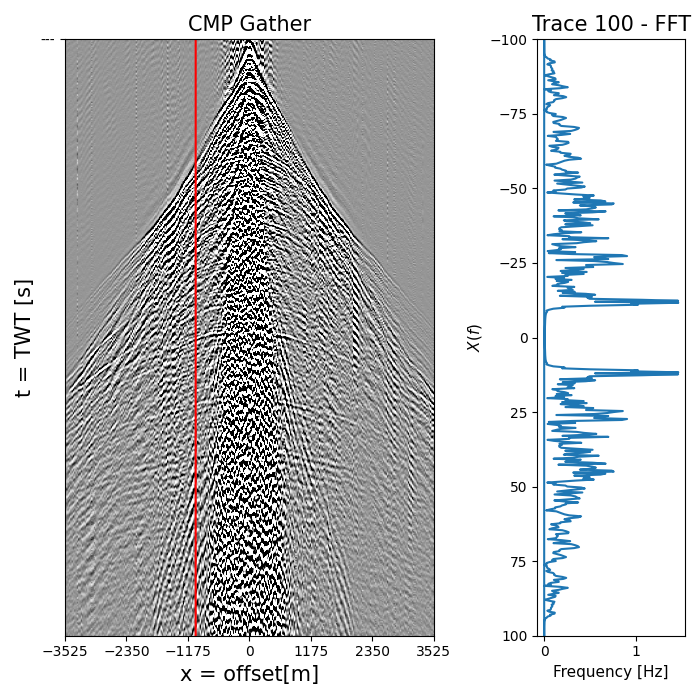
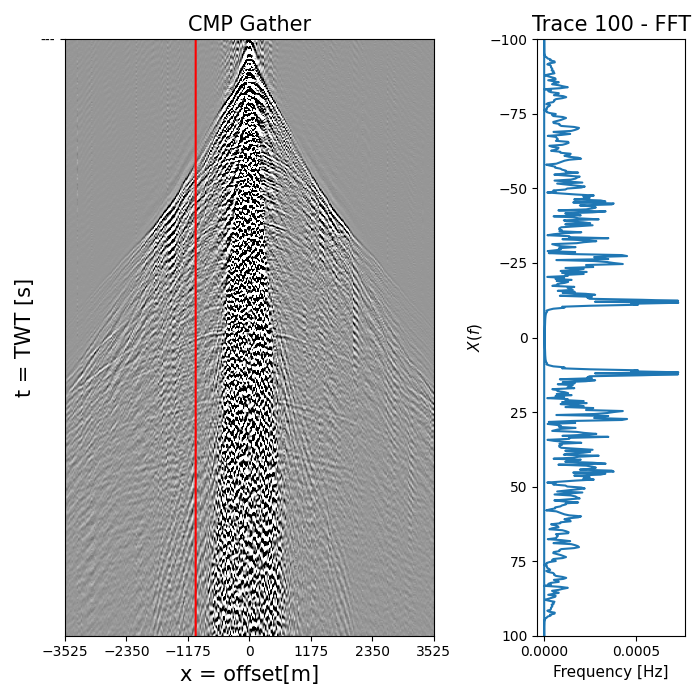
fk

Changed region(s): [[0.09, 0.06, 0.63, 0.93], [0.75, 0.9, 0.81, 0.96], [0.9, 0.9, 0.93, 0.96]]

diff --git a/signals_n_systems/transformada_fk.py b/signals_n_systems/transformada_fk.py
@@ -1,0 +1,116 @@
+import numpy as np
+import matplotlib.pyplot as plt
+import matplotlib.gridspec as gridspec
+
+# Leitura do arquivo
+nx = 282
+nz = 1501
+dt = 2e-3
+dx = 25
+t = np.arange(nz)*dt
+
+cmp_gather = np.reshape(np.fromfile("signals_n_systems/arquivo binario/open_data_seg_poland_vibroseis_2ms_1501x282_shot_1.bin", dtype=np.float32), (nx, nz))
+
+# -----------------------------------------------------------------------------
+# -----------------------------------------------------------------------------
+
+trace1 = cmp_gather[0,:]
+trace80 = cmp_gather[79,:]
+trace100 = cmp_gather[99,:]
+trace161 = cmp_gather[160,:]
+
+# Transformada de Fourier
+freq = np.fft.fftfreq(nz, dt)
+mascara = freq > 0
+
+# ---------------------
+Amp1 = np.abs(np.fft.fft(trace1) / nz)
+# ---------------------
+Amp80 = np.abs(np.fft.fft(trace80) / nz)
+# ---------------------
+Amp100 = np.abs(np.fft.fft(trace100) / nz)
+# ---------------------
+Amp161 = np.abs(np.fft.fft(trace161) / nz)
+
+# -----------------------------------------------------------------------------
+# -----------------------------------------------------------------------------
+
+#perc = np.percentile(cmp_gather, 95)
+perc = 95
+perc_min = np.percentile(cmp_gather, 100-perc)
+perc_max = np.percentile(cmp_gather, perc)
+
+# Vizualizando o CMP Gather
+
+
+# Crie os subplots com tamanhos diferentes
+# Defina os tamanhos dos subplots
+widths = [5, 2]  # largura do primeiro e segundo subplot, respectivamente
+heights = [7]  # altura do subplot único (1 linha)
+
+# Crie uma grade de subplots com tamanhos diferentes
+fig = plt.figure(figsize=(sum(widths), max(heights)))
+gs = gridspec.GridSpec(len(heights), len(widths), width_ratios=widths, height_ratios=heights)
+
+# Adicione os subplots
+ax0 = plt.subplot(gs[0, 0])
+ax1 = plt.subplot(gs[0, 1])
+
+#fig, ax = plt.subplots(ncols=2, nrows=1, num = "CMP Gather", figsize = (5,7))
+ax0.set_title('CMP Gather',  fontsize = 15)
+ax0.imshow(cmp_gather.T, aspect='auto', cmap='Grays', extent=[-(nx * dx)/2, (nx * dx)/2, nz * dt, 0], vmin=perc_min, vmax=perc_max)
+ax0.plot(trace100 - 1025, t, 'red', '---')
+
+ax0.set_xlabel('x = offset[m]',  fontsize = 15)
+ax0.set_ylabel('t = TWT [s]',  fontsize = 15)
+ax0.set_xticks(np.arange(-3525,3526,1175))
+
+ax1.set_title("Trace 100 - FFT", fontsize = 15)
+ax1.plot(Amp100, freq)
+ax1.set_xlabel("Frequency [Hz]", fontsize = 11)
+ax1.set_ylabel(r"$X(f)$", fontsize = 11)
+ax1.set_ylim(100,-100)
+
+fig.tight_layout()
+fig.savefig('signals_n_systems/imagens/fft_trace100.png')
+plt.show()
+# -----------------------------------------------------------------------------
+# -----------------------------------------------------------------------------
+
+def calc_freq_med(DATA, dt): 
+
+  DADO_f = 0
+  for i in range(DATA.shape[1]):
+    temp = np.fft.fftshift(np.fft.fft(DATA[:,i]))
+    DADO_f += np.abs(temp)/np.max(np.abs(temp))
+
+  DADO_f = DADO_f/DATA.shape[1]
+  DADO_f = DADO_f/np.max(np.abs(DADO_f))
+  FREQSf = np.fft.fftshift(np.fft.fftfreq(DATA.shape[0], d = dt))
+
+  return DADO_f, FREQSf
+
+dado_f, freqsf = calc_freq_med(cmp_gather, dt)
+
+plt.figure(dpi=100)
+plt.title('Espectro de Frequências', weight='bold', fontsize=16)
+plt.plot(freqsf[cmp_gather.shape[0]//2:], np.abs(dado_f[cmp_gather.shape[0]//2:]))
+plt.xlabel('Frequências (Hz)')
+plt.ylabel('Amplitude Normalizada')
+plt.grid(linestyle='--')
+plt.show()
+
+dado_FK = np.fft.fftshift(np.fft.fft2(cmp_gather)) # Calculando a transformada FK e reorganizando o array
+freqsk = np.fft.fftshift(np.fft.fftfreq(dado_FK.shape[1], d = dx)) # Calculando os números de onda que representam o dado e reorganizando o array
+
+perc = np.percentile(np.abs(dado_FK), 95)
+plt.figure(dpi=100)
+plt.title('Espectro FK', weight='bold', fontsize=16)
+plt.imshow(np.abs(dado_FK), vmin=0, vmax=perc, aspect='auto', cmap='jet', extent = [freqsk[0], freqsk[-1], freqsf[0], freqsf[-1]])
+plt.xlabel('Número de onda k')
+plt.ylabel('Frequência (Hz)')
+plt.colorbar()
+plt.show()
+
+
+print(np.shape(dado_FK))

diff --git a/signals_n_systems/fft.py b/signals_n_systems/fft.py
@@ -28,14 +28,18 @@ Amp1 = np.abs(np.fft.fft(trace1) / nz)
 # ---------------------
 Amp80 = np.abs(np.fft.fft(trace80) / nz)
 # ---------------------
-Amp100 = 2000.0 * np.abs(np.fft.fft(trace100) / nz)
+Amp100 = np.abs(np.fft.fft(trace100) / nz)
 # ---------------------
 Amp161 = np.abs(np.fft.fft(trace161) / nz)
 
 # -----------------------------------------------------------------------------
 # -----------------------------------------------------------------------------
 
-perc = np.percentile(cmp_gather, 90)
+#perc = np.percentile(cmp_gather, 95)
+perc = 95
+perc_min = np.percentile(cmp_gather, 100-perc)
+perc_max = np.percentile(cmp_gather, perc)
+
 # Vizualizando o CMP Gather
 
 
@@ -54,7 +58,7 @@ ax1 = plt.subplot(gs[0, 1])
 
 #fig, ax = plt.subplots(ncols=2, nrows=1, num = "CMP Gather", figsize = (5,7))
 ax0.set_title('CMP Gather',  fontsize = 15)
-ax0.imshow(cmp_gather.T, aspect='auto', cmap='Grays', extent=[-(nx * dx)/2, (nx * dx)/2, nz * dt, 0], vmin=-perc, vmax=perc)
+ax0.imshow(cmp_gather.T, aspect='auto', cmap='Grays', extent=[-(nx * dx)/2, (nx * dx)/2, nz * dt, 0], vmin=perc_min, vmax=perc_max)
 ax0.plot(trace100 - 1025, t, 'red', '---')
 
 ax0.set_xlabel('x = offset[m]',  fontsize = 15)
